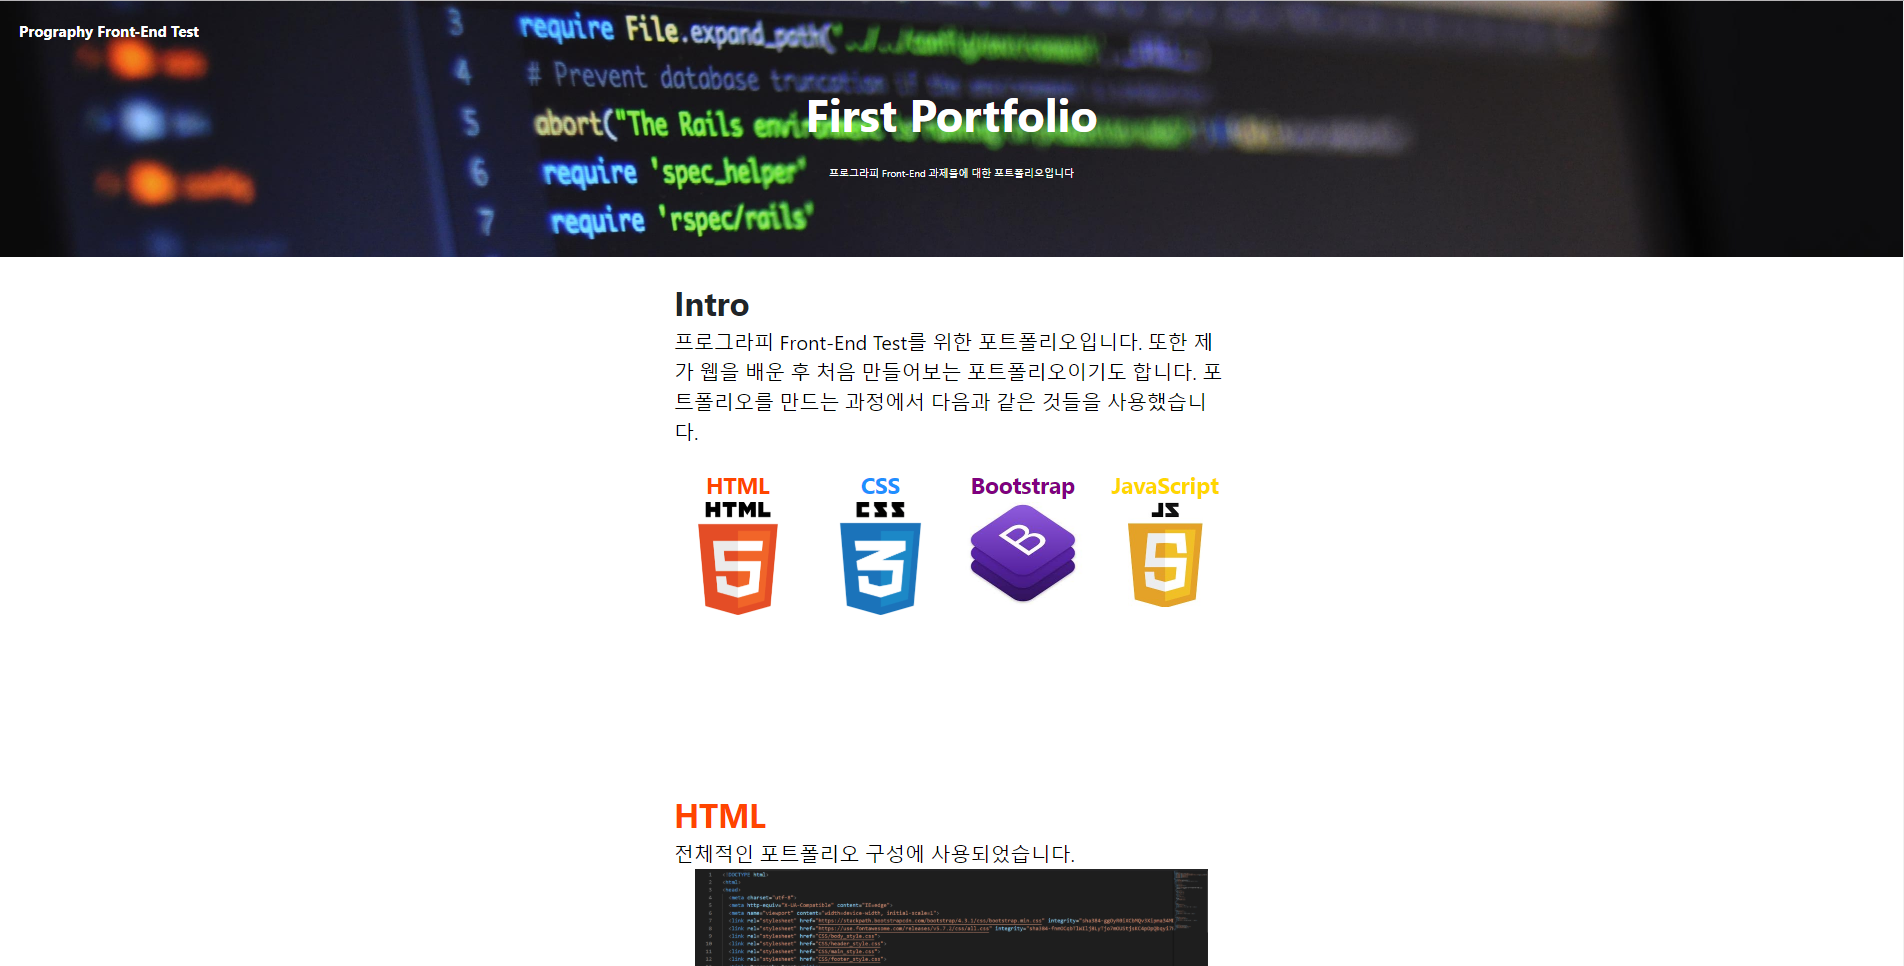
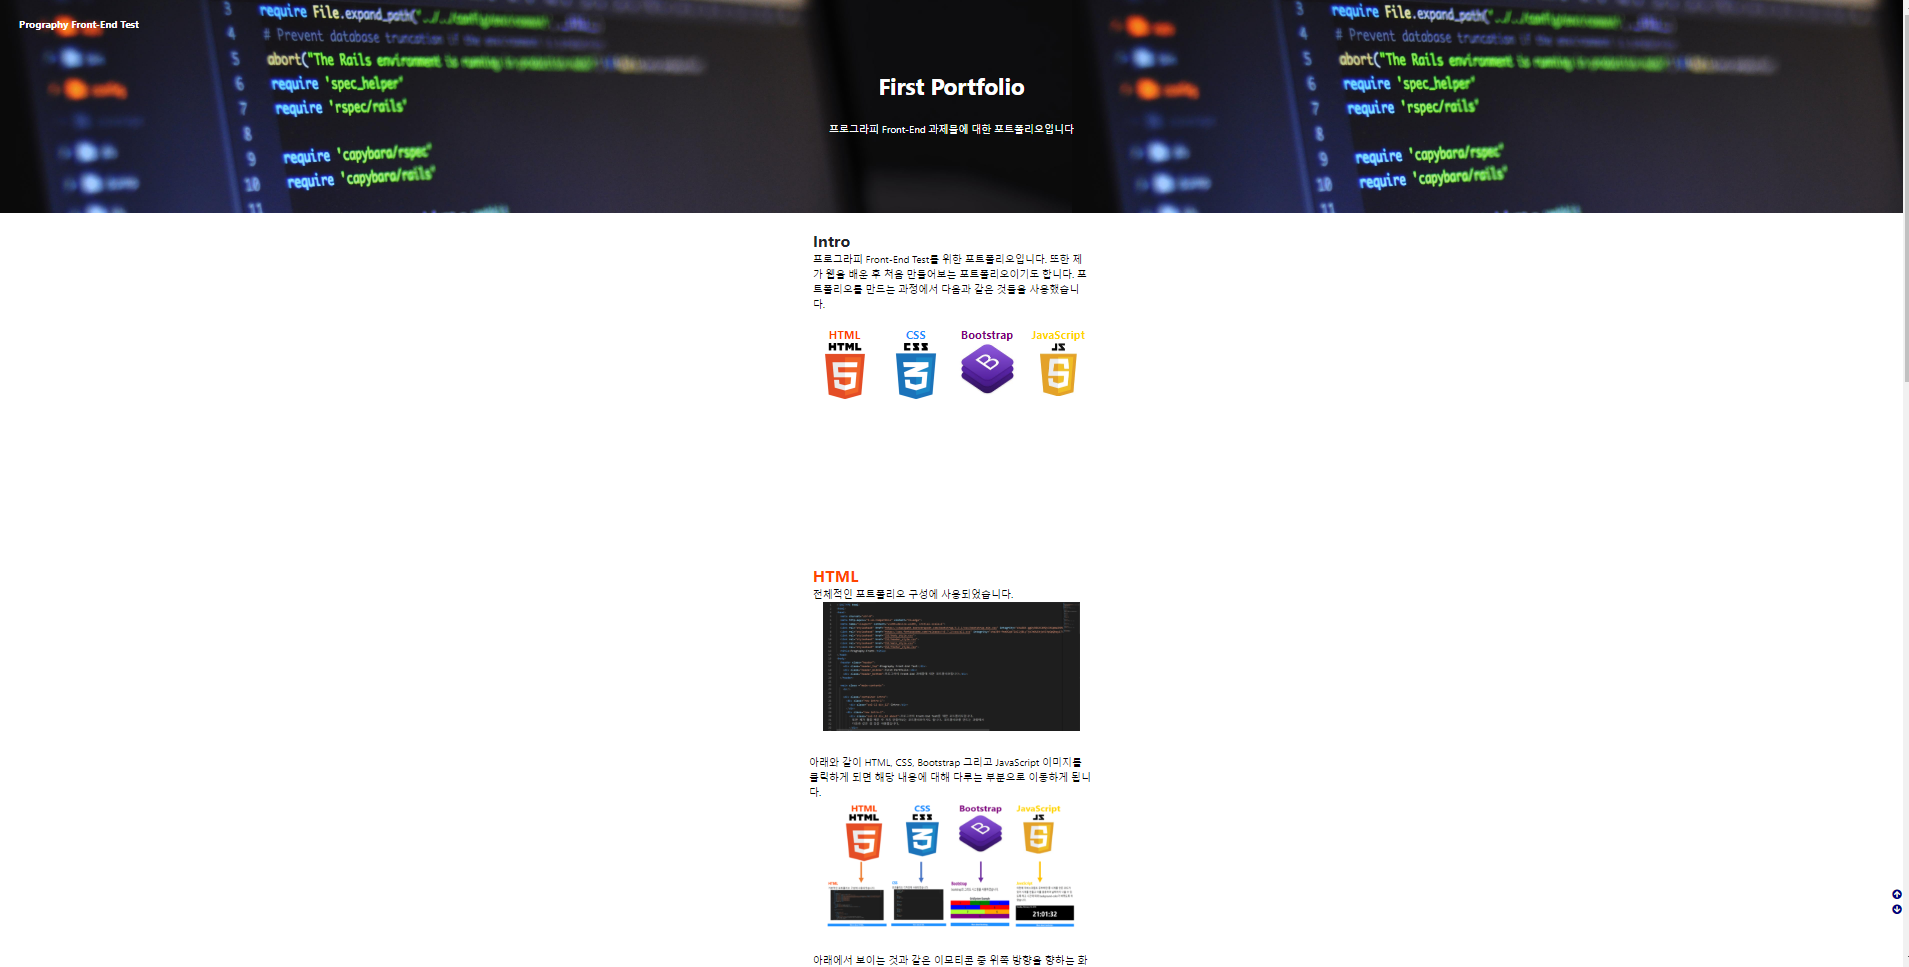
up down 버튼 및 내용 수정

diff --git a/index.html b/index.html
@@ -71,7 +71,7 @@
         </div>
         <div class="row image">
           <div clas="col-12 div_12">
-            <img class="code_image" src="images/html_code.PNG">
+            <img class="portfolio_image" src="images/html_code.PNG">
           </div>
         </div>
         <br/>
@@ -81,17 +81,30 @@
           </div>
         </div>
         <div class="row image">
-          <div clas="col-12 div_12">
-            <img class="code_image" src="images/detail_1.PNG">
+          <div class="col-12 div_12">
+            <img class="portfolio_image" src="images/detail_1.PNG">
+          </div>
+        </div>
+        <br/> 
+        <div class="row about">
+          <div class="col-12 div_12">
+            아래에서 보이는 것과 같은 이모티콘 중 위쪽 방향을 향하는 화살표를 클릭할 경우 포트폴리오의
+            가장 상단으로 이동하게 되며, 아래쪽 방향으로 향하는 화살표를 클릭하게 되면 포트폴리오의 가장
+            하단으로 이동하게 됩니다.
+          </div>
+        </div>
+        <div class="row image">
+          <div class="col-12 div_12">
+            <img class="portfolio_image" src="images/arrow.PNG">
           </div>
         </div>
         <br/>
         <div class="row about">
-          <div clas="col-12 div_12">아래와 같은 div를 클릭할 경우 해당 내용에 대한 정보를 줄 수 있는 사이트로 이동하게 됩니다.</div>
+          <div class="col-12 div_12">아래와 같은 div를 클릭할 경우 해당 내용에 대한 정보를 줄 수 있는 사이트로 이동하게 됩니다.</div>
         </div>
         <div class="row image">
-          <div clas="col-12 div_12">
-            <img class="code_image" src="images/more.PNG">
+          <div class="col-12 div_12">
+            <img class="portfolio_image" src="images/more.PNG">
           </div>
         </div>
         <br>
@@ -99,8 +112,8 @@
           <div clas="col-12 div_12">Github Link라는 부분을 클릭하면 저의 GitHub로 이동할 수 있습니다.</div>
         </div>
         <div class="row image">
-          <div clas="col-12 div_12">
-            <img class="code_image" src="images/github.PNG">
+          <div class="col-12 div_12">
+            <img class="portfolio_image" src="images/github.PNG">
           </div>
         </div>
       </div>
@@ -127,7 +140,7 @@
         </div>
         <div class="row image">
           <div clas="col-12 div_12">
-            <img class="code_image" src="images/css_code.PNG">
+            <img class="portfolio_image" src="images/css_code.PNG">
           </div>
         </div>
       </div>
@@ -183,7 +196,7 @@
       </div>
       <div class="row image">
         <div clas="col-12 div_12">
-          <img class="code_image" src="images/screen.PNG">
+          <img class="portfolio_image" src="images/screen.PNG">
         </div>
       </div>
     </div>
@@ -228,18 +241,31 @@
         </div>
       </dic>
     </div>
+    <a href="#Top">
+      <div class="arrow arrow_up">
+        <i class="fas fa-arrow-circle-up"></i>
+      </div>
+    </a>
+    <a href="#Footer">
+      <div class="arrow arrow_down">
+        <i class="fas fa-arrow-circle-down"></i>
+      </div>
+    </a>
     <br/>
     <br/>
   </main>
   
-  <footer class="footer">
-    <div class="footer_top">First Portfolio</div>
-    <div class="footer_middle">by Hong Yu Seok</div>
-    <a href="https://github.com/yshjft" class="footer_bottom link_s">
-      <i class="fab fa-github-square gitCat"></i>
-      <div class="footer_bottom-text">GitHub Link</div>
-    </a>
-  </footer>
+  <a name="Footer">
+    <footer class="footer">
+      <div class="footer_top">First Portfolio</div>
+      <div class="footer_middle">by Hong Yu Seok</div>
+      <a href="https://github.com/yshjft" class="footer_bottom link_s">
+        <i class="fab fa-github-square gitCat"></i>
+        <div class="footer_bottom-text">GitHub Link</div>
+      </a>
+    </footer>
+  </a>
+  
 
 </body>
 <script src="date_time.js"></script>

diff --git a/CSS/main_style.css b/CSS/main_style.css
@@ -45,8 +45,9 @@
   font-size:45px;
 }
 
-.code_image{
+.portfolio_image{
   width:90%;
+  text-align:center;
 }
 
 .aboutHtml{
@@ -115,4 +116,19 @@
 .calender{
   font-weight:bold;
   font-size: 30px;
+}
+
+.arrow{
+  position:fixed;
+  right: 4px;
+  font-size: 40px;
+  color:#000080;
+}
+
+.arrow_up{
+  bottom:260px;
+}
+
+.arrow_down{
+  bottom:200px;
 }
